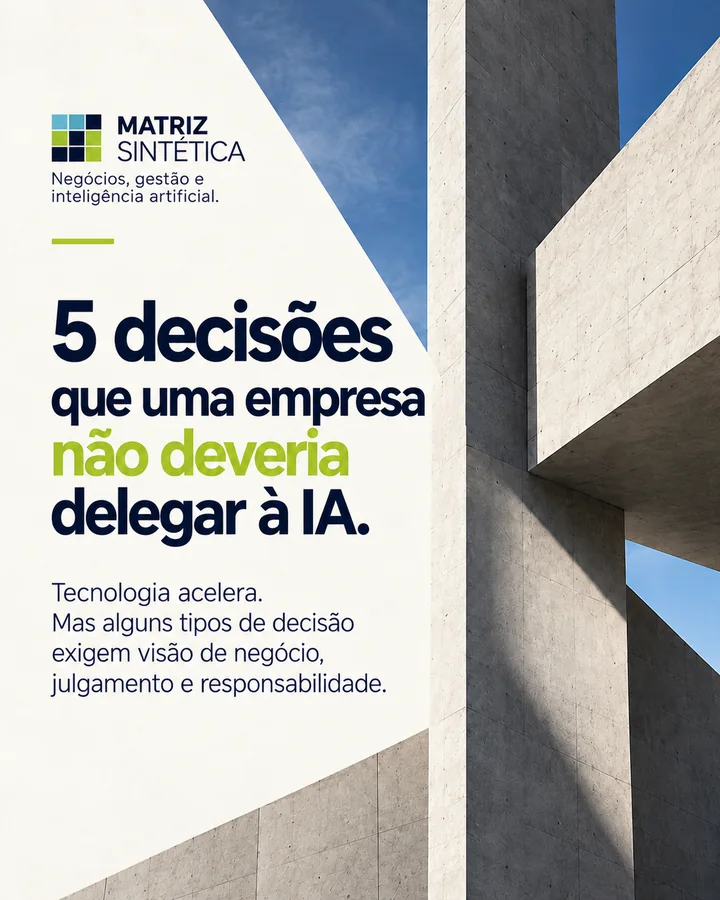
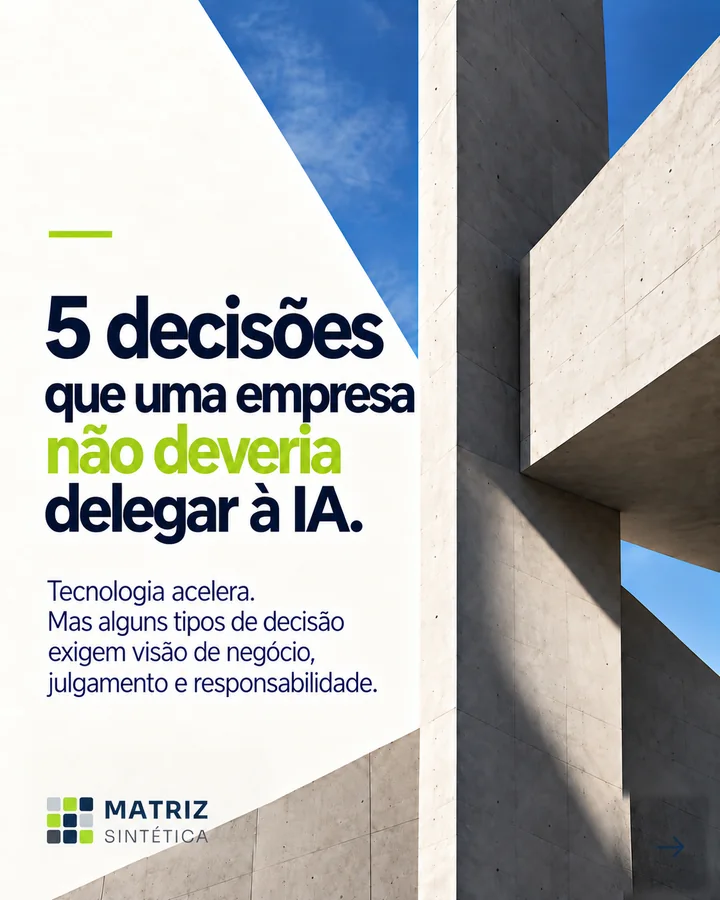
SEO, capas finais dos carrosséis e ajustes finos
Sitemap, robots, manifesto, dados estruturados (Organization, WebSite,
Book com oferta), títulos e descrições por página, /links e 404 fora
do índice, capas menores, novas capas com a logo v1.

Claude-Session: https://claude.ai/code/session_012wv8kYp1LGuKcPpSfkALcj

diff --git a/app/produtos/page.tsx b/app/produtos/page.tsx
@@ -2,17 +2,52 @@ import type { Metadata } from 'next';
 import { CartaoProduto } from '@/components/CartaoProduto';
 import { Cabecalho, Rodape } from '@/components/Estrutura';
 import { Revelar } from '@/components/Revelar';
-import { produtos } from '@/lib/site';
+import { DadosEstruturados } from '@/components/DadosEstruturados';
+import { produtos, site } from '@/lib/site';
 
 export const metadata: Metadata = {
-  title: 'Produtos',
-  description: 'Livros e materiais digitais da Matriz Sintética.',
+  title: 'Produtos: livros e e-books sobre IA, gestão e negócios',
+  description:
+    'Livros e materiais digitais da Matriz Sintética para aplicar inteligência artificial na gestão e nos negócios. Conheça A parte que fica e Do Prompt ao Processo.',
   alternates: { canonical: '/produtos' },
 };
 
 export default function Produtos() {
   return (
     <>
+      <DadosEstruturados
+        dados={{
+          '@context': 'https://schema.org',
+          '@type': 'ItemList',
+          name: 'Produtos da Matriz Sintética',
+          itemListElement: produtos.map((p, i) => ({
+            '@type': 'ListItem',
+            position: i + 1,
+            item: {
+              '@type': 'Book',
+              name: p.titulo,
+              alternativeHeadline: p.subtitulo,
+              description: p.descricao,
+              image: `${site.url}${p.capa.src}`,
+              inLanguage: 'pt-BR',
+              bookFormat: 'https://schema.org/EBook',
+              publisher: { '@id': `${site.url}/#organizacao` },
+              ...(p.pagina ? { url: p.pagina } : {}),
+              ...(p.checkout && p.preco
+                ? {
+                    offers: {
+                      '@type': 'Offer',
+                      price: p.preco.replace(/[^0-9,]/g, '').replace(',', '.'),
+                      priceCurrency: 'BRL',
+                      availability: 'https://schema.org/InStock',
+                      url: p.checkout,
+                    },
+                  }
+                : {}),
+            },
+          })),
+        }}
+      />
       <Cabecalho />
       <main id="conteudo">
         <section className="largura topo-pagina">

diff --git a/app/layout.tsx b/app/layout.tsx
@@ -3,11 +3,21 @@ import { Analytics } from '@vercel/analytics/next';
 import '@fontsource-variable/sora';
 import '@fontsource-variable/inter';
 import './globals.css';
+import { DadosEstruturados } from '@/components/DadosEstruturados';
 import { site } from '@/lib/site';
 
 export const metadata: Metadata = {
   metadataBase: new URL(site.url),
-  title: { default: `${site.nome} | ${site.assinatura}`, template: `%s | ${site.nome}` },
+  title: {
+    default: `${site.nome} | Inteligência artificial aplicada a negócios e gestão`,
+    template: `%s | ${site.nome}`,
+  },
+  applicationName: site.nome,
+  keywords: ['inteligência artificial', 'IA para negócios', 'gestão', 'processos', 'pequenos negócios', 'e-book de IA'],
+  authors: [{ name: site.nome, url: site.url }],
+  creator: site.nome,
+  publisher: site.nome,
+  formatDetection: { telephone: false },
   description: site.descricao,
   openGraph: {
     siteName: site.nome,
@@ -24,6 +34,31 @@ export default function RootLayout({ children }: { children: React.ReactNode }) 
   return (
     <html lang="pt-BR">
       <body>
+        <DadosEstruturados
+          dados={{
+            '@context': 'https://schema.org',
+            '@graph': [
+              {
+                '@type': 'Organization',
+                '@id': `${site.url}/#organizacao`,
+                name: site.nome,
+                url: site.url,
+                logo: `${site.url}/apple-icon.png`,
+                slogan: site.assinatura,
+                description: site.descricao,
+                sameAs: [site.instagram.url],
+              },
+              {
+                '@type': 'WebSite',
+                '@id': `${site.url}/#site`,
+                name: site.nome,
+                url: site.url,
+                inLanguage: 'pt-BR',
+                publisher: { '@id': `${site.url}/#organizacao` },
+              },
+            ],
+          }}
+        />
         <a className="pular" href="#conteudo">
           Ir para o conteúdo
         </a>

diff --git a/lib/site.ts b/lib/site.ts
@@ -43,7 +43,7 @@ export const produtos: Produto[] = [
       'Uma IA recebeu autonomia criativa para imaginar a relação entre humanidade e inteligência artificial. Leia o romance e, depois, a entrevista com a autora.',
     status: 'disponivel',
     preco: 'R$ 29,90',
-    capa: { src: '/img/a-parte-que-fica.webp', largura: 720, altura: 1080 },
+    capa: { src: '/img/a-parte-que-fica.webp', largura: 480, altura: 720 },
     checkout: 'https://pay.hotmart.com/D107811025F',
     pagina: 'https://apartequefica.vercel.app',
   },
@@ -55,7 +55,7 @@ export const produtos: Produto[] = [
     descricao:
       'Como usar inteligência artificial de forma prática em vendas, atendimento, gestão, marketing e na rotina do negócio, sem precisar entender de tecnologia.',
     status: 'em-breve',
-    capa: { src: '/img/do-prompt-ao-processo.webp', largura: 720, altura: 1008 },
+    capa: { src: '/img/do-prompt-ao-processo.webp', largura: 480, altura: 672 },
   },
 ];
 
@@ -68,14 +68,14 @@ export const destaque = produtos[0];
 export const publicacoes = [
   {
     tema: 'Inteligência artificial',
-    titulo: 'A melhor dica que posso te dar para aprender a usar inteligência artificial. E não é um prompt.',
+    titulo: 'A melhor dica que posso te dar para aprender a usar inteligência artificial. E quase ninguém faz.',
     imagem: '/img/post-melhor-dica.webp',
     url: '',
   },
   {
-    tema: 'Negócios',
-    titulo: 'Clientes não compram produtos. Compram soluções.',
-    imagem: '/img/post-solucoes.webp',
+    tema: 'Processos',
+    titulo: 'O problema não é o prompt. É o processo.',
+    imagem: '/img/post-prompt-processo.webp',
     url: '',
   },
   {

diff --git a/app/sobre/page.tsx b/app/sobre/page.tsx
@@ -7,7 +7,7 @@ import { Saida } from '@/components/Saida';
 import { destaque, linkPagina } from '@/lib/site';
 
 export const metadata: Metadata = {
-  title: 'Sobre',
+  title: 'Sobre a Matriz Sintética e a Fábrica de Soluções',
   description:
     'A Matriz Sintética cria produtos, ferramentas e soluções com qualidade em inteligência artificial, gestão e negócios.',
   alternates: { canonical: '/sobre' },
@@ -69,7 +69,7 @@ export default function Sobre() {
           <div className="secao-topo">
             <div>
               <p className="rotulo">A proposta</p>
-              <h2>Três frentes, um mesmo padrão.</h2>
+              <h2>Tecnologia faz mais sentido quando melhora decisões, processos e resultados.</h2>
             </div>
           </div>
           <ul className="eixos">

diff --git a/app/manifest.ts b/app/manifest.ts
@@ -1,0 +1,21 @@
+import type { MetadataRoute } from 'next';
+import { site } from '@/lib/site';
+
+export const dynamic = 'force-static';
+
+export default function manifest(): MetadataRoute.Manifest {
+  return {
+    name: site.nome,
+    short_name: site.nome,
+    description: site.descricao,
+    start_url: '/',
+    display: 'browser',
+    background_color: '#F5F6F4',
+    theme_color: '#0F2E4E',
+    lang: 'pt-BR',
+    icons: [
+      { src: '/icon.svg', sizes: 'any', type: 'image/svg+xml' },
+      { src: '/apple-icon.png', sizes: '180x180', type: 'image/png' },
+    ],
+  };
+}

diff --git a/app/page.tsx b/app/page.tsx
@@ -1,3 +1,4 @@
+import type { Metadata } from 'next';
 import Link from 'next/link';
 import { CartaoProduto } from '@/components/CartaoProduto';
 import { Cabecalho, Rodape, Seta } from '@/components/Estrutura';
@@ -5,6 +6,10 @@ import { Modulos } from '@/components/Modulos';
 import { Revelar } from '@/components/Revelar';
 import { Saida } from '@/components/Saida';
 import { produtos, publicacoes, site } from '@/lib/site';
+
+export const metadata: Metadata = {
+  alternates: { canonical: '/' },
+};
 
 export default function Home() {
   return (

diff --git a/app/sitemap.ts b/app/sitemap.ts
@@ -1,0 +1,13 @@
+import type { MetadataRoute } from 'next';
+import { site } from '@/lib/site';
+
+export const dynamic = 'force-static';
+
+export default function sitemap(): MetadataRoute.Sitemap {
+  const agora = new Date();
+  return [
+    { url: `${site.url}/`, lastModified: agora, changeFrequency: 'weekly', priority: 1 },
+    { url: `${site.url}/produtos`, lastModified: agora, changeFrequency: 'weekly', priority: 0.9 },
+    { url: `${site.url}/sobre`, lastModified: agora, changeFrequency: 'monthly', priority: 0.7 },
+  ];
+}

diff --git a/app/not-found.tsx b/app/not-found.tsx
@@ -1,5 +1,11 @@
+import type { Metadata } from 'next';
 import Link from 'next/link';
 import { Cabecalho, Rodape } from '@/components/Estrutura';
+
+export const metadata: Metadata = {
+  title: 'Página não encontrada',
+  robots: { index: false, follow: true },
+};
 
 export default function NaoEncontrada() {
   return (

diff --git a/app/robots.ts b/app/robots.ts
@@ -1,0 +1,12 @@
+import type { MetadataRoute } from 'next';
+import { site } from '@/lib/site';
+
+export const dynamic = 'force-static';
+
+export default function robots(): MetadataRoute.Robots {
+  return {
+    rules: { userAgent: '*', allow: '/' },
+    sitemap: `${site.url}/sitemap.xml`,
+    host: site.url,
+  };
+}

diff --git a/components/DadosEstruturados.tsx b/components/DadosEstruturados.tsx
@@ -1,0 +1,9 @@
+/** Insere dados estruturados (schema.org) em JSON-LD. */
+export function DadosEstruturados({ dados }: { dados: object }) {
+  return (
+    <script
+      type="application/ld+json"
+      dangerouslySetInnerHTML={{ __html: JSON.stringify(dados).replace(/</g, '\\u003c') }}
+    />
+  );
+}

diff --git a/app/links/page.tsx b/app/links/page.tsx
@@ -7,6 +7,7 @@ export const metadata: Metadata = {
   title: 'Links',
   description: 'Os principais destinos da Matriz Sintética.',
   alternates: { canonical: '/links' },
+  robots: { index: false, follow: true },
 };
 
 export default function Links() {
